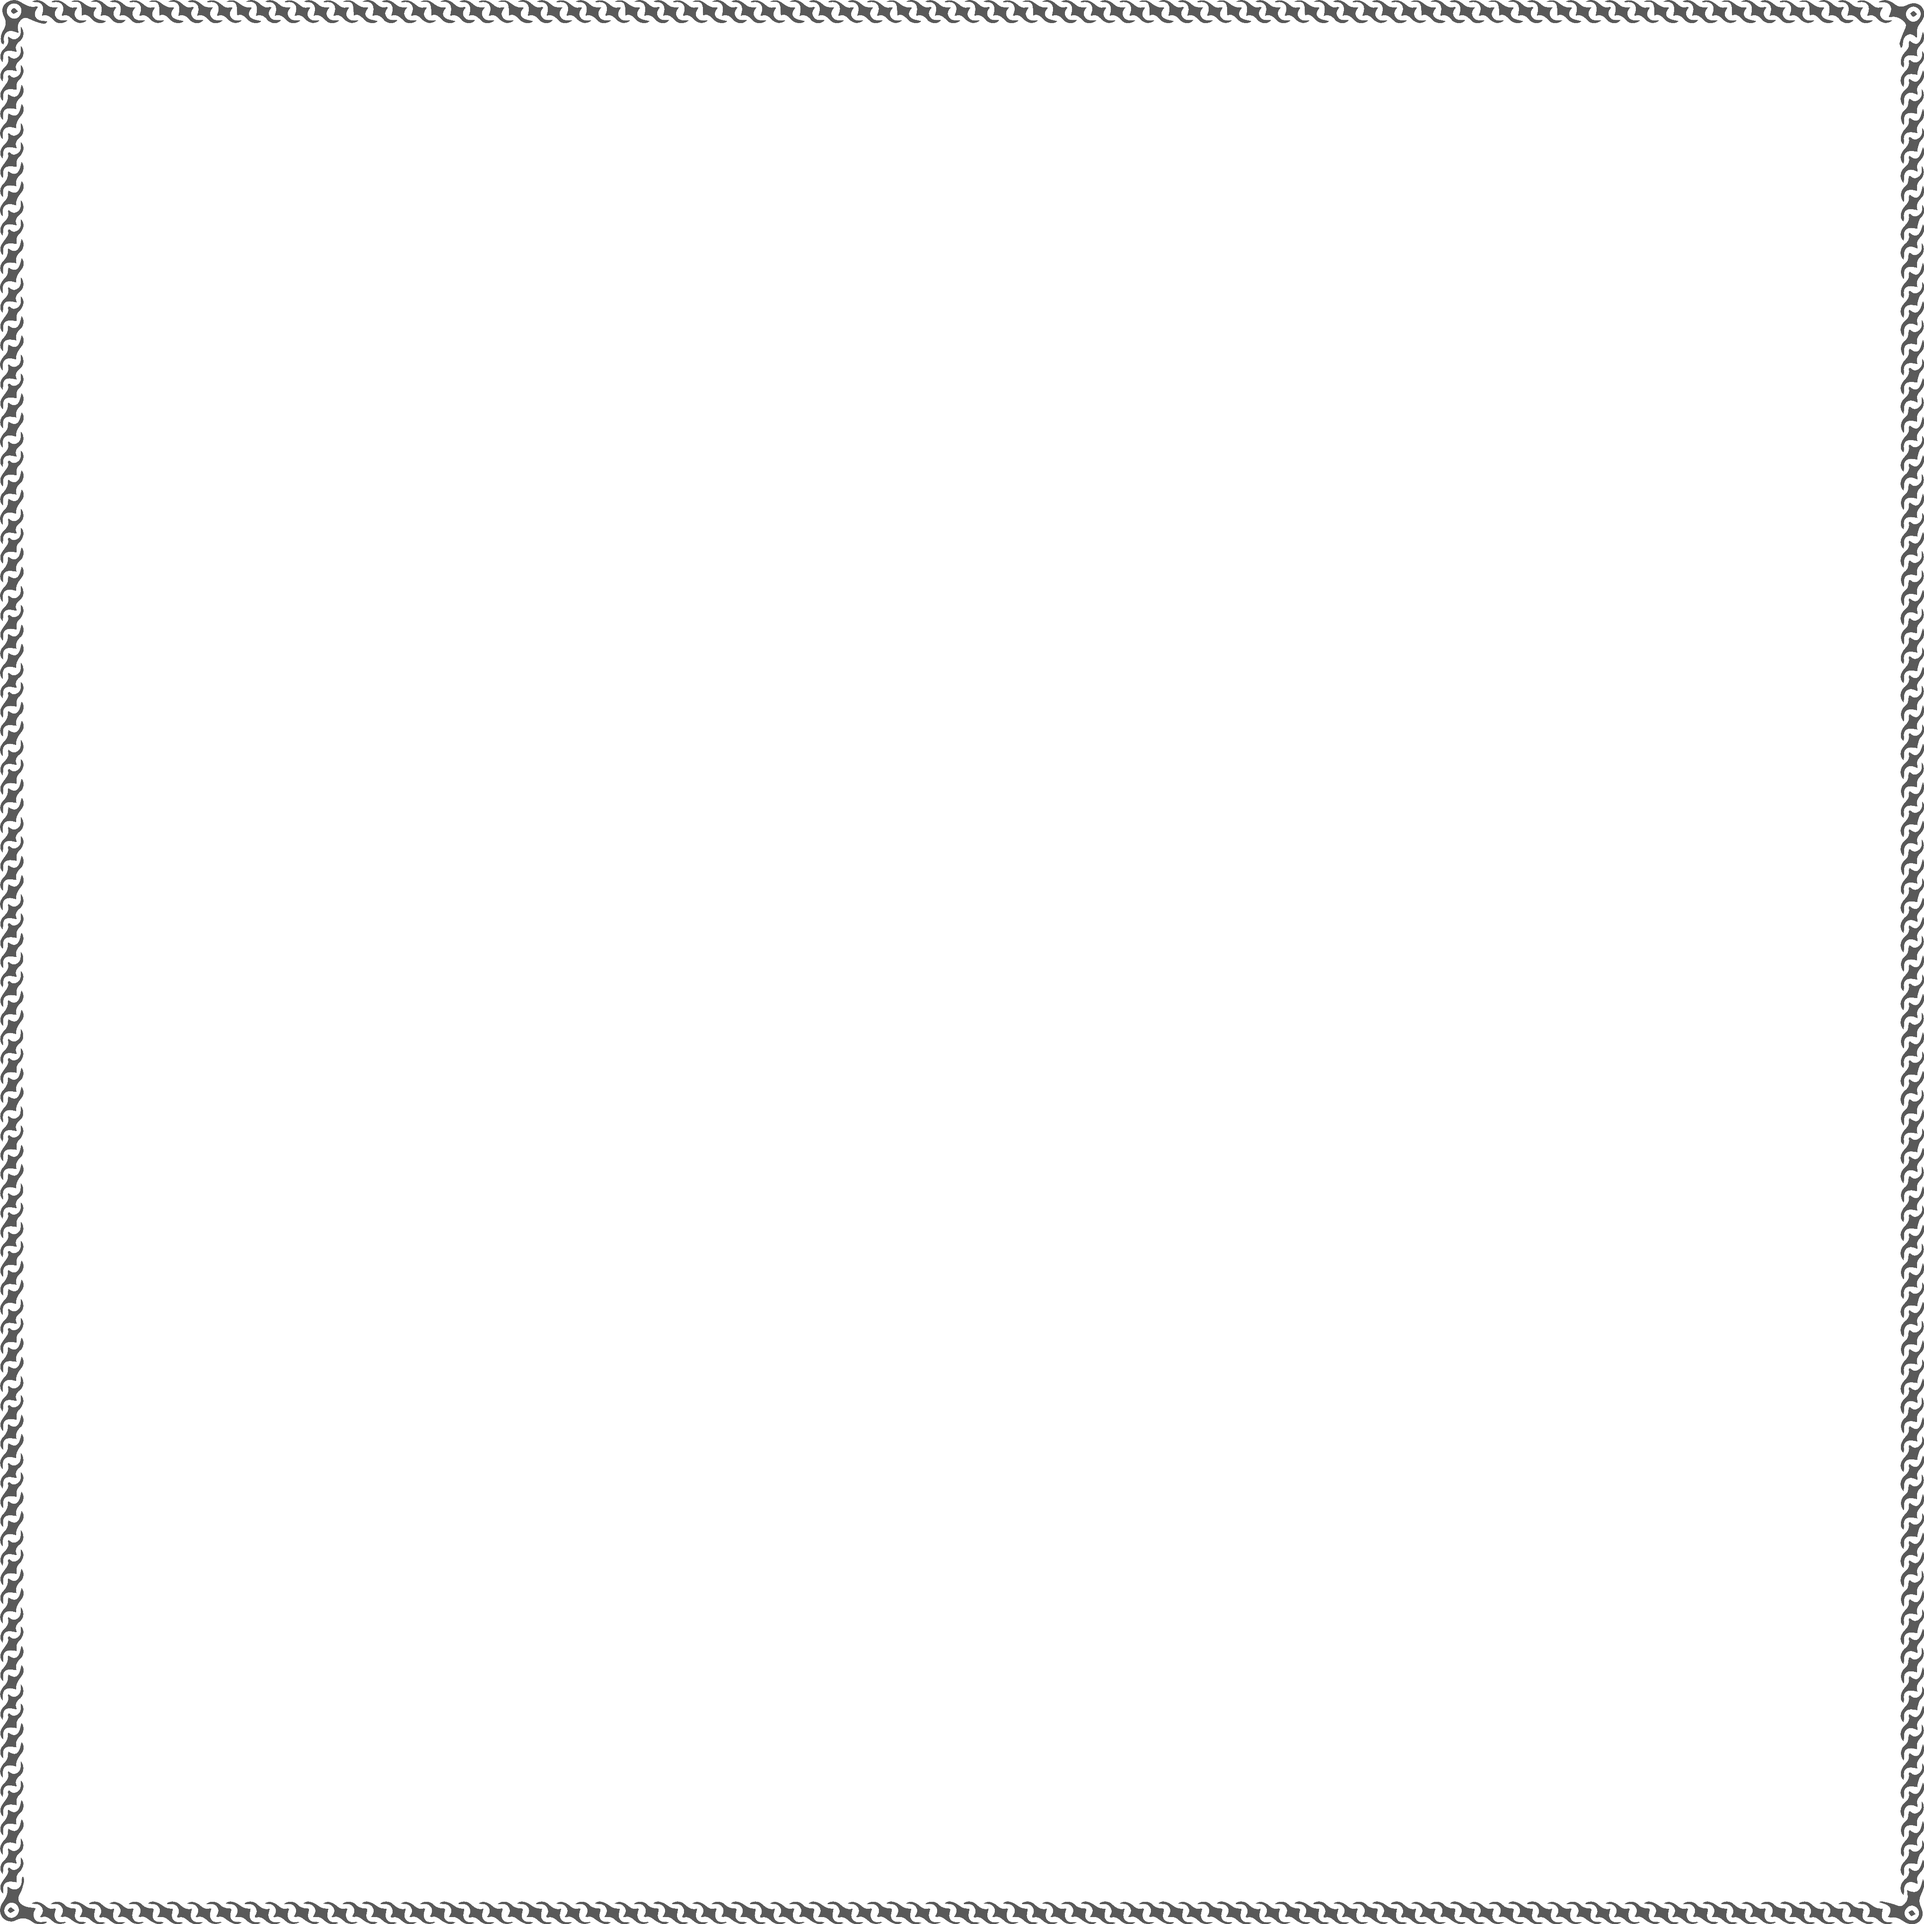
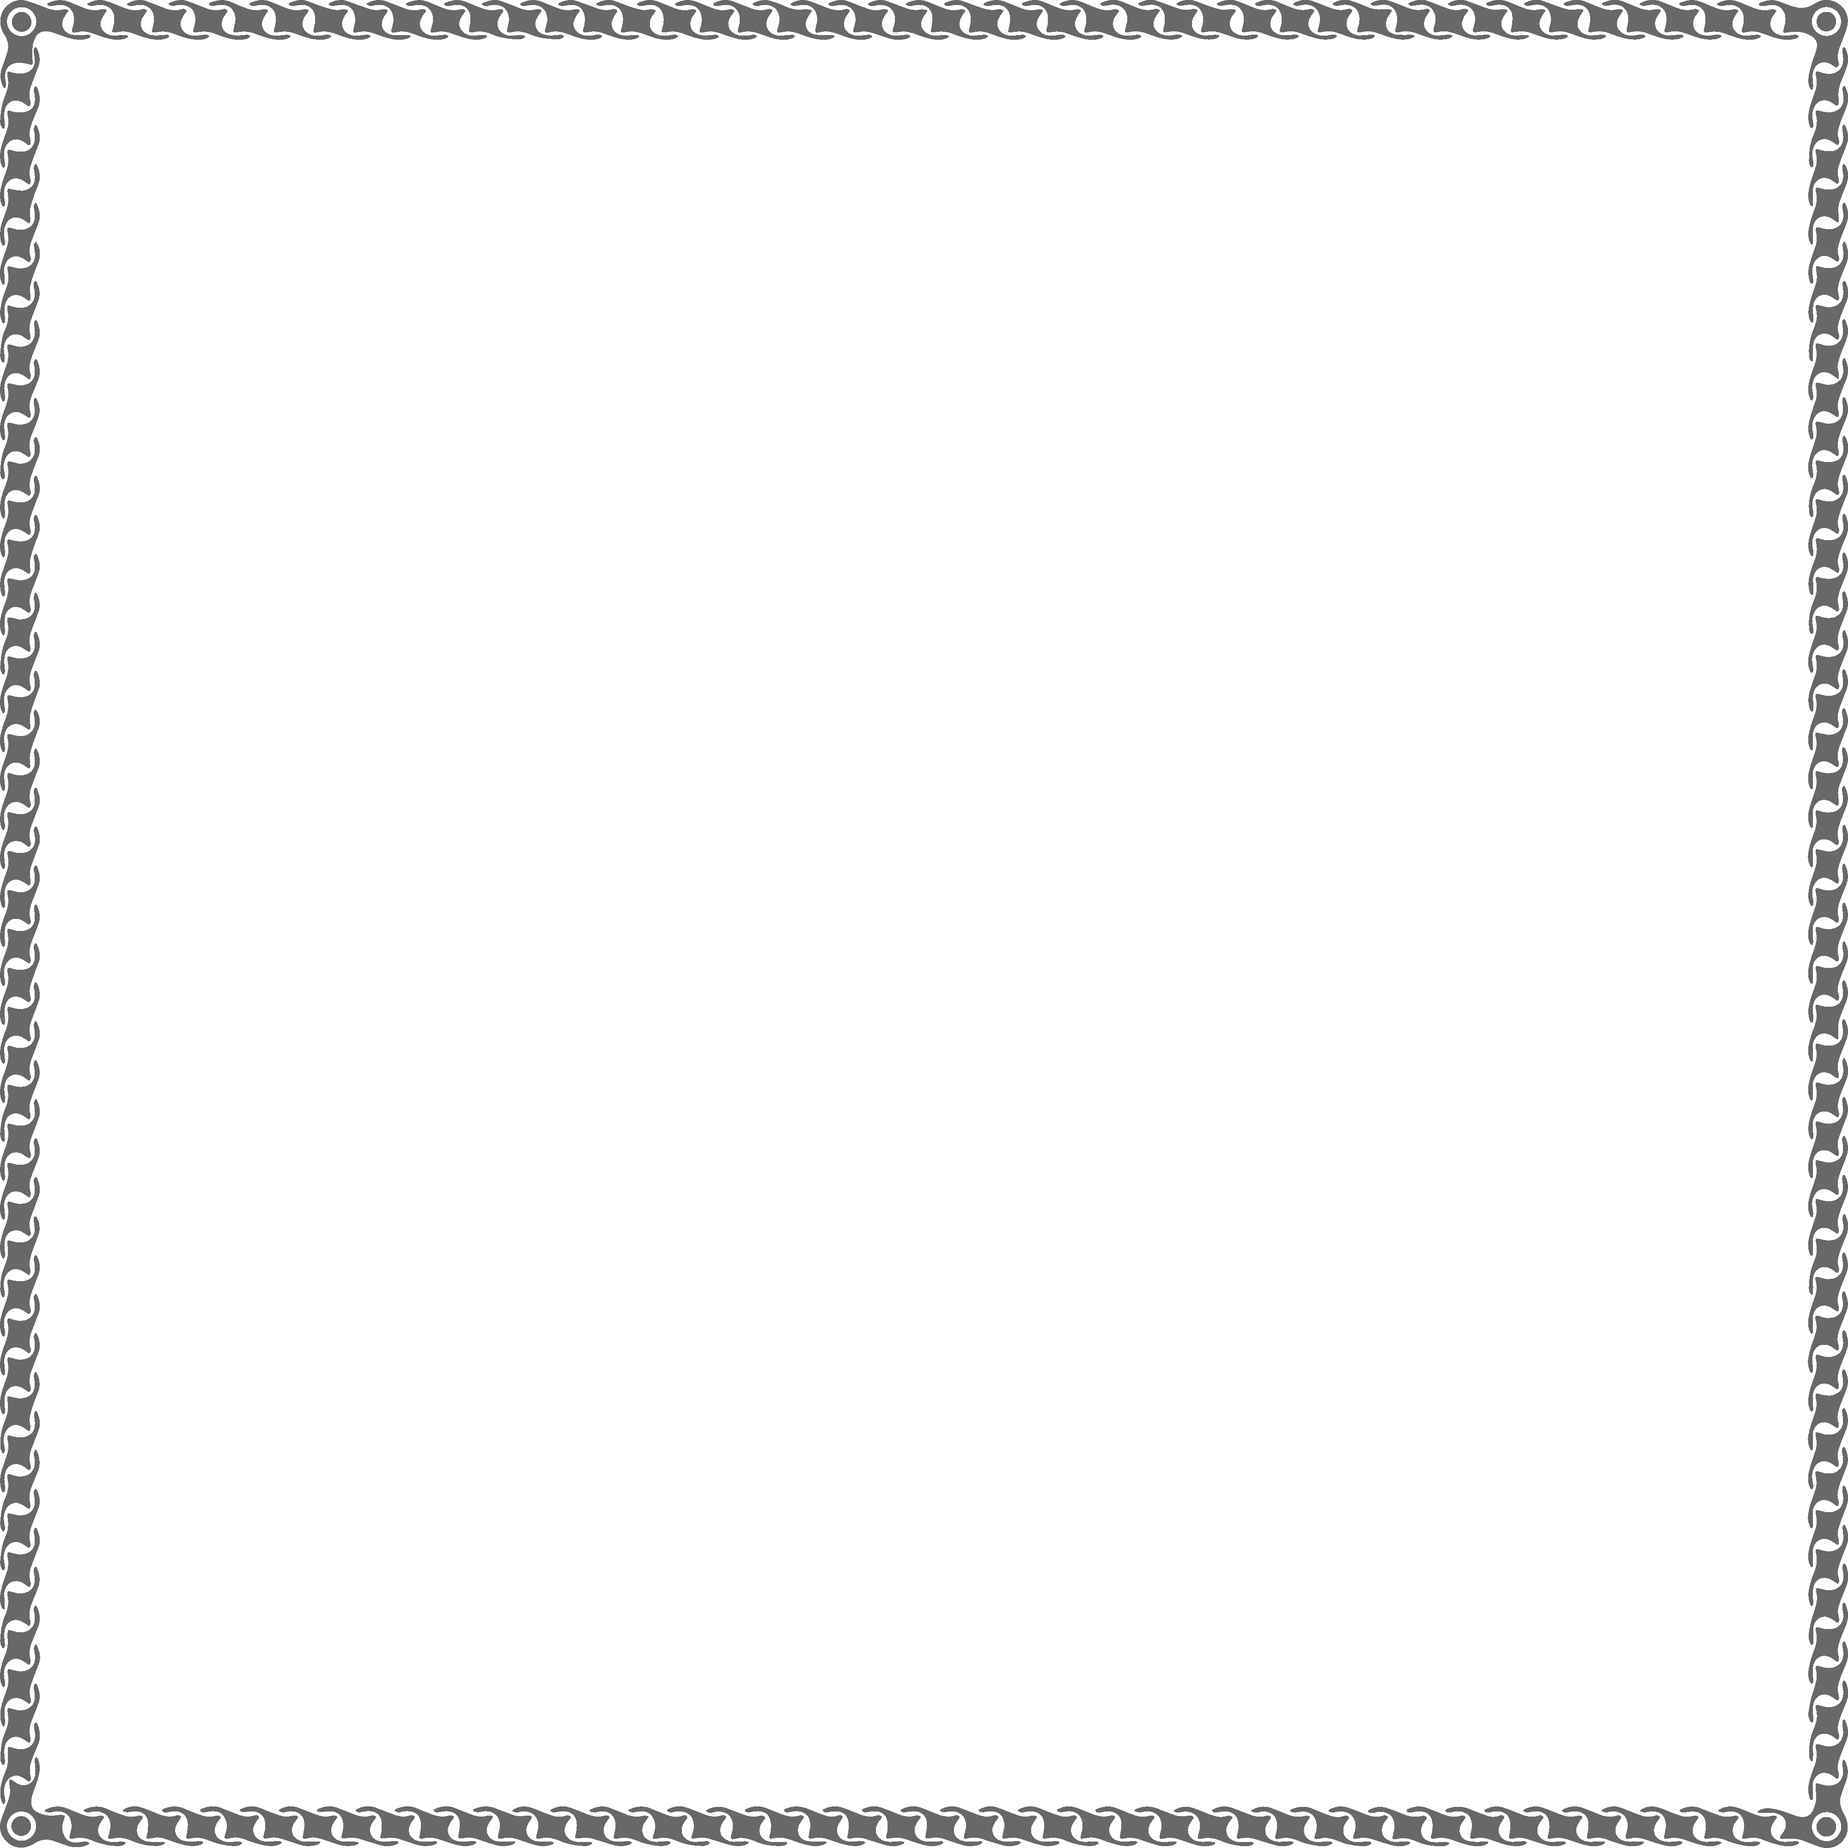
fix: 🐛 Border and Alignment fixes

Changed region(s): [[0.0, 0.0, 1.0, 1.0]]

diff --git a/src/styles/system/_foundry-overrides.scss b/src/styles/system/_foundry-overrides.scss
@@ -13,6 +13,8 @@
 	white-space: nowrap;
 	line-height: 1;
 	overflow: hidden;
+	padding: 0 6px;
+	margin: 0 0 0 4px;
 	color: transparent;
 	transition: max-width 1s ease;
 	@include hoverWidth("char-gen");
@@ -111,6 +113,7 @@ img {
 		content: "\f187";
 	}
 }
+
 a.entity-link,
 a.inline-roll {
 	border: none;
@@ -121,6 +124,9 @@ a.inline-roll {
 a {
 	&.inline-roll {
 		border: none;
+	}
+	&:hover {
+			text-shadow: 0 0 5px #a00;
 	}
 }
 
@@ -164,7 +170,7 @@ a {
 		&:after {
 			content: "";
 			border: 10px solid transparent;
-			border-image: url(../assets/journal-art/small-border.webp) 70/12px repeat;
+			border-image: url(../assets/journal-art/small-border.webp) 100/10px repeat;;
 			position: absolute;
 			height: calc(100% - 24px);
 			width: calc(100% - 24px);
@@ -229,7 +235,7 @@ li {
 #player-config {
 	.avatar {
 		border: 2px dotted #444;
-		border-image: url(../assets/journal-art/small-border.webp) 100/15px repeat;
+		border-image: url(../assets/journal-art/small-border.webp) 100/10px repeat;;
 	}
 	.directory-item.context {
 		border-top: 1px solid black;
@@ -248,9 +254,9 @@ li {
 	}
 }
 
-#player-config ::-webkit-scrollbar-thumb {
-	background: gray;
-	border-color: darkslategray;
+::-webkit-scrollbar-thumb {
+	background: #999;
+	border-color: #005d67;
 }
 ::-webkit-scrollbar-track {
 	box-shadow: 0 0 3px #999 inset;

diff --git a/src/styles/sheets/_monster.scss b/src/styles/sheets/_monster.scss
@@ -34,23 +34,19 @@
 	background: radial-gradient(closest-side, var(--color-highlight) 0%, transparent 100%);
 	flex: 0 0 auto;
 	height: 95px;
-	margin-right: 8px;
 	width: 95px;
-	padding: 0 0.25em;
 }
 
 .forbidden-lands .monster .bio .avatar img {
 	border: 0 none;
 	display: block;
-
-	max-width: 95px;
-	max-height: 95px;
+	place-self: center;
+	max-width: 100%;
+	max-height: 100%;
 	min-width: 20px;
 	min-height: 20px;
-	margin: auto;
-	margin-left: 5px;
 }
-.forbidden-lands .monster .bio .avatar img:hover {
+.forbidden-lands .monster .bio .avatar:hover {
 	box-shadow: 0 0 10px #a00;
 	cursor: pointer;
 }

diff --git a/src/styles/sheets/_character.scss b/src/styles/sheets/_character.scss
@@ -38,23 +38,18 @@
 		flex: 0 0 auto;
 		height: 95px;
 		width: 95px;
-		padding: 0 0.25em;
 		&:hover {
 			box-shadow: 0 0 10px #a00;
 			cursor: pointer;
 		}
 		img {
-			border: 0 none;
+			place-self: center;
+			border: none;
 			display: block;
-			max-width: 95px;
-			max-height: 95px;
+			max-width: 100%;
+			max-height: 100%;
 			min-width: 20px;
 			min-height: 20px;
-			margin: auto;
-			&:hover {
-				box-shadow: 0 0 10px #a00;
-				cursor: pointer;
-			}
 		}
 	}
 	.willpower.skulls {

diff --git a/src/styles/components/_chat.scss b/src/styles/components/_chat.scss
@@ -146,7 +146,7 @@
 	&.item {
 		.header {
 			border: 10px solid transparent;
-			border-image: url(../assets/journal-art/small-border.webp) 100/18px repeat;
+			border-image: url(../assets/journal-art/small-border.webp) 100/10px repeat;;
 			.header-stats {
 				.bonus {
 					grid-gap: 5px;

diff --git a/src/styles/system/_main.scss b/src/styles/system/_main.scss
@@ -7,7 +7,7 @@
 .chargen-build,
 .character div.actions.border {
 	border: 6px solid transparent;
-	border-image: url(../assets/journal-art/small-border.webp) 70/12px repeat;
+	border-image: url(../assets/journal-art/small-border.webp) 100/10px repeat;;
 }
 
 .forbidden-lands.sheet label {

diff --git a/src/styles/sheets/_party-sheet.scss b/src/styles/sheets/_party-sheet.scss
@@ -4,7 +4,7 @@
 	max-height: calc(100vh - 10%);
 	.border {
 		border: 6px solid transparent;
-		border-image: url(../assets/journal-art/small-border.webp) 70/12px repeat;
+		border-image: url(../assets/journal-art/small-border.webp) 100/10px repeat;;
 	}
 }
 

diff --git a/src/styles/sheets/_item.scss b/src/styles/sheets/_item.scss
@@ -6,7 +6,7 @@
 	max-height: 700px;
 	.header {
 		border: 6px solid transparent;
-		border-image: url(../assets/journal-art/small-border.webp) 100/18px repeat;
+		border-image: url(../assets/journal-art/small-border.webp) 100/10px repeat;;
 	}
 }
 

diff --git a/src/styles/components/_editor-override.scss b/src/styles/components/_editor-override.scss
@@ -37,6 +37,9 @@
 					width: 18%;
 					padding-top: 4px;
 				}
+				p {
+					width: 100%;
+				}
 				p + p {
 					text-indent: 14px;
 					margin-top: -0.5em;
